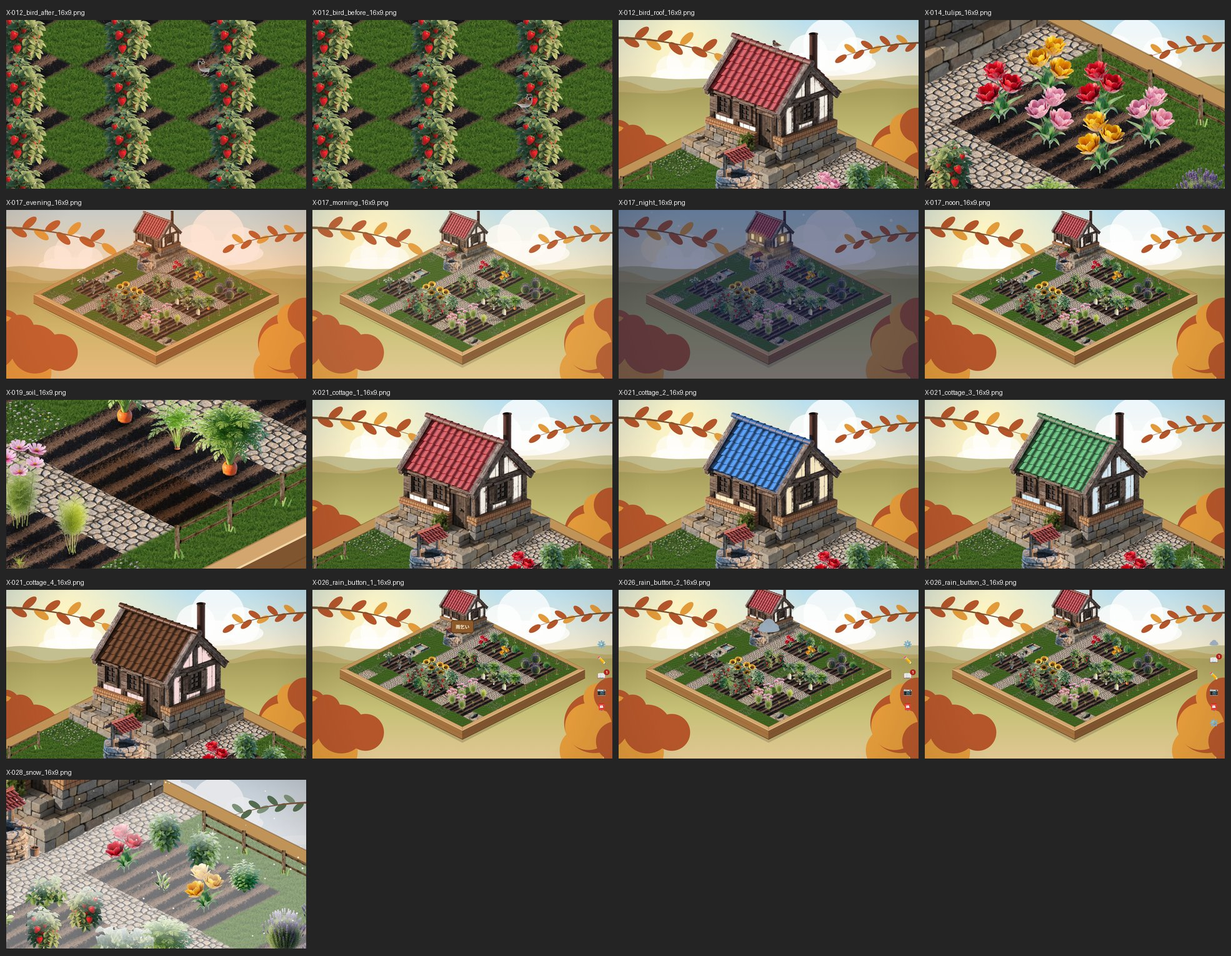
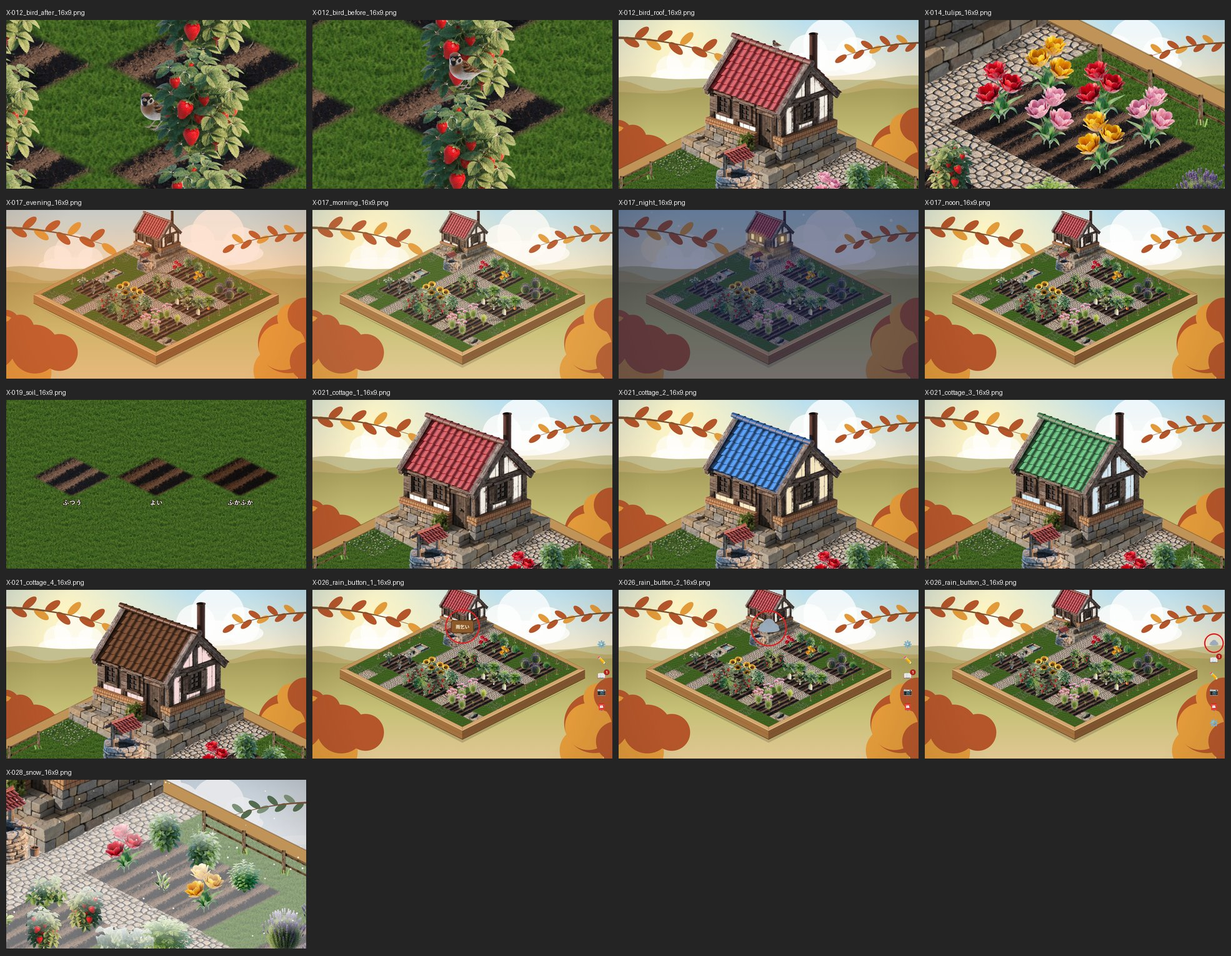
11 月の宣伝素材の直し：一覧の画像（contact_sheet・clips_sheet）を作り直し、作り直し用の tools/promo_sheets.py。README に X-012 の寄り方・X-017_timeofday・X-019 の文字・X-026 の丸印と raw/ を追記。ShowcaseTest に横一列の土の庭のテスト 1 件

Changed region(s): [[0.0, 0.0, 0.4954, 0.215], [0.0, 0.3993, 0.2477, 0.6144], [0.6193, 0.6451, 0.6503, 0.6758]]

diff --git a/app/src/test/java/com/studioguu/miniaturegarden/ui/debug/ShowcaseTest.kt b/app/src/test/java/com/studioguu/miniaturegarden/ui/debug/ShowcaseTest.kt
@@ -113,6 +113,17 @@ class ShowcaseTest {
     }
 
     @Test
+    fun `the soil's row is three empty beds, plain to fluffy, side by side across the screen, on a lawn`() {
+        val row = ShowcaseGarden.soilRow(now)
+        val beds = ShowcaseGarden.SOIL_ROW.map { cell -> row.single { it.isTilledSoil && GridCell(it.gridX, it.gridY) == cell } }
+        assertEquals(listOf(0, 1, 2), beds.map { it.soilQuality })
+        assertTrue(row.none { it.isPlant })
+        // Side by side on the screen: each a step right (x + 1) and a step up (y - 1), so x - y grows and x + y stays.
+        assertEquals(1, ShowcaseGarden.SOIL_ROW.map { it.x + it.y }.toSet().size)
+        assertEquals(ShowcaseGarden.SIZE * ShowcaseGarden.SIZE, row.flatMap { it.occupiedCells() }.toSet().size)
+    }
+
+    @Test
     fun `a bird is called to a building or onto the ground, in place of any other bird`() {
         val other = CreatureVisit(VisitRule.BIRD_BENCH, GridCell(7, 8), null, now, now + 60_000L)
         val roof = Showcase(bird = StructureData.COTTAGE.objectId, birdAt = now).visitors(listOf(other), garden).single()

diff --git a/tools/promo_sheets.py b/tools/promo_sheets.py
@@ -1,0 +1,76 @@
+"""The two sheets for looking over a set of promotional pictures at a glance (docs/promo/2026-11):
+contact_sheet.jpg has every picture small with its name, clips_sheet.jpg the first, middle and
+last frame of every clip. The plain pictures in raw/ are left out.
+
+    python tools/promo_sheets.py [docs/promo/2026-11]
+"""
+
+from __future__ import annotations
+
+import re
+import subprocess
+import sys
+import tempfile
+from pathlib import Path
+
+from PIL import Image, ImageDraw
+
+sys.path.insert(0, str(Path(__file__).resolve().parent))
+from promo_capture import ROOT, ffmpeg_exe  # noqa: E402
+
+
+def contact_sheet(folder: Path) -> Path:
+    stills = sorted(folder.glob("X-*.png"))
+    w, h, cols = 480, 270, 4
+    rows = (len(stills) + cols - 1) // cols
+    sheet = Image.new("RGB", (cols * (w + 10) + 10, rows * (h + 34) + 10), (36, 36, 36))
+    draw = ImageDraw.Draw(sheet)
+    for i, path in enumerate(stills):
+        x, y = 10 + (i % cols) * (w + 10), 10 + (i // cols) * (h + 34)
+        sheet.paste(Image.open(path).convert("RGB").resize((w, h), Image.LANCZOS), (x, y + 22))
+        draw.text((x, y + 4), path.name, fill=(240, 240, 240))
+    target = folder / "contact_sheet.jpg"
+    sheet.save(target, quality=85)
+    return target
+
+
+def clips_sheet(folder: Path) -> Path:
+    ffmpeg = ffmpeg_exe()
+    row_height = 300
+    scratch = Path(tempfile.mkdtemp())
+    rows = []
+    for clip in sorted(folder.glob("X-*.mp4")):
+        info = subprocess.run([ffmpeg, "-i", str(clip)], capture_output=True, text=True, errors="replace").stderr
+        m = re.search(r"Duration: (\d+):(\d+):([\d.]+)", info)
+        length = int(m[1]) * 3600 + int(m[2]) * 60 + float(m[3])
+        frames = []
+        for j, at in enumerate([0.05, length / 2, length - 0.1]):
+            still = scratch / f"{clip.stem}_{j}.png"
+            subprocess.run([ffmpeg, "-y", "-loglevel", "error", "-ss", str(at), "-i", str(clip), "-frames:v", "1", str(still)], check=True)
+            image = Image.open(still).convert("RGB")
+            frames.append(image.resize((round(image.width * row_height / image.height), row_height), Image.LANCZOS))
+        rows.append((clip.name, length, frames))
+    width = max(sum(f.width for f in frames) + 40 for _, _, frames in rows)
+    sheet = Image.new("RGB", (width, len(rows) * (row_height + 34) + 10), (36, 36, 36))
+    draw = ImageDraw.Draw(sheet)
+    for i, (name, length, frames) in enumerate(rows):
+        y = 10 + i * (row_height + 34)
+        draw.text((10, y + 4), f"{name}  ({length:.1f} s: first / middle / last)", fill=(240, 240, 240))
+        x = 10
+        for frame in frames:
+            sheet.paste(frame, (x, y + 22))
+            x += frame.width + 10
+    target = folder / "clips_sheet.jpg"
+    sheet.save(target, quality=85)
+    return target
+
+
+def main() -> int:
+    folder = Path(sys.argv[1]) if len(sys.argv) > 1 else ROOT / "docs/promo/2026-11"
+    print(contact_sheet(folder))
+    print(clips_sheet(folder))
+    return 0
+
+
+if __name__ == "__main__":
+    sys.exit(main())

diff --git a/docs/promo/README.md b/docs/promo/README.md
@@ -66,20 +66,22 @@ python tools/promo_capture.py --sheet docs/promo/contact_sheet.jpg
 ## 11 月の投稿用（`2026-11/`）
 
 ファイル名の頭は投稿の ID。画像は横 16:9（1600×900）、動画は横 16:9（1600×900）と縦 9:16（1080×1920）の H.264。
-確認用に `contact_sheet.jpg`（静止画の一覧）と `clips_sheet.jpg`（動画の最初・真ん中・最後のコマ）。
+確認用に `contact_sheet.jpg`（静止画の一覧）と `clips_sheet.jpg`（動画の最初・真ん中・最後のコマ）。作り直しは `python tools/promo_sheets.py`。
+`raw/` は文字や丸印を重ねる前の元の画像（`tools/promo_marks.py` がここから作るので、何度作っても二重にならない）。
 
 | ファイル | 内容 | 撮り方 |
 |---|---|---|
 | `X-010_tilling_*.mp4` | 荒れ地の 3 マスをクワで 2 回ずつたたいて耕した土、さらに 2 回ずつで畝（15 秒） | `garden till`（大根の列を空けた庭）＋ `hoe`、マスをタップ |
-| `X-012_bird_before_16x9.png` | 直す前：ことりがいちごの株の上に乗って見える | 9fb5fc1 の 1 つ前を別の作業フォルダでビルド（下の「古いビルド」）、`promo_burst.py` で選ぶ |
-| `X-012_bird_after_16x9.png` | 直した後：同じ庭・同じ構図で、ことりがいちごの奥に半分隠れる | `garden birdcrops` ＋ `bird 5,4`、`promo_burst.py` で選ぶ |
+| `X-012_bird_before_16x9.png` | 直す前：ことりを中心に寄った構図で、ことりがいちごの株の上に重なって見える | 9fb5fc1 の 1 つ前を別の作業フォルダでビルド（下の「古いビルド」）、`promo_burst.py` で選び `promo_cut.py` で切り出す |
+| `X-012_bird_after_16x9.png` | 直した後：同じ庭・同じ倍率で、ことりがいちごの葉の奥に半分隠れる | `garden birdcrops` ＋ `bird 5,4`、同じく選んで切り出す |
 | `X-012_bird_roof_16x9.png` | ことりがコテージの屋根の棟に止まる | 見せる用の庭 ＋ `bird struct_cottage`、`promo_burst.py` で選ぶ |
 | `X-014_tulips_16x9.png` | チューリップの花壇の寄り（赤・ピンク・黄だけ、全部咲いた段階） | `garden tulips` |
 | `X-017_{morning,noon,evening,night}_16x9.png` | 同じ構図で朝・昼・夕方・夜の全体 | `time` だけを変える |
-| `X-019_soil_16x9.png` | 何も植えていない畝を左から ふつうの土・よい土・ふかふかの土 | `garden soil` |
+| `X-017_timeofday_*.mp4` | 同じ構図で朝→昼→夕方→夜を約 3 秒ずつ、0.7 秒でふわっと切り替えてつなぐ（約 10 秒） | `Shot.segments`：時間帯ごとに 5 秒録って 1 秒目から 3 秒を使い、xfade でつなぐ |
+| `X-019_soil_16x9.png` | 何も植えていない ふつう・よい・ふかふか の土を 1 マスずつ画面の横一列に。下に白い小さな文字 | `garden soilrow`。文字は `promo_marks.py` が後から重ねる（ゲームの画面には無い） |
 | `X-021_cottage_{1..4}_16x9.png` | コテージの色違い：赤/白（元の色）・青/クリーム・緑/水色・こげ茶/淡いピンク | `roof` / `wall`（屋根 4 色×壁 4 色＝16 通り） |
 | `X-024_raincloud_*.mp4` | 右のアイコン列の雨雲をタップ → 確認 → 雨 → 作物がきらっと光る（15 秒） | `garden thirsty` ＋ `side_only` ＋ `skip_ad`、雲と「雨を降らせる」を探してタップ |
-| `X-026_rain_button_{1,2,3}_16x9.png` | 雨乞いのボタンの 3 段階：茶色の文字ボタン／空の雨雲／右の列の雲 | 1 は 979e699 の 1 つ前、2 は 2be8292 の 1 つ前を別の作業フォルダでビルド、3 は今の `side_only` |
+| `X-026_rain_button_{1,2,3}_16x9.png` | 雨乞いのボタンの 3 段階：茶色の文字ボタン／空の雨雲／右の列の雲。ボタン・雲に赤い丸印（線だけ） | 1 は 979e699 の 1 つ前、2 は 2be8292 の 1 つ前を別の作業フォルダでビルド、3 は今の `side_only`。丸印は `promo_marks.py`（位置は `RINGS`） |
 | `X-028_snow_16x9.png` | 冬・雪の日の一角（作物の上と地面の雪。屋根には積もらない作り） | `season WINTER` ＋ `weather SNOWY` |
 | `X-005_butterfly_9x16.mp4` / `X-007_rain_9x16.mp4` | 前回の `butterfly.mp4`・`rain.mp4` の縦版（寄った構図） | |
 
@@ -101,7 +103,7 @@ python tools/promo_capture.py --set 2026-11
 
 | 指定 | 内容 |
 |---|---|
-| `--es garden till` / `soil` / `tulips` / `thirsty` / `birdcrops` | 見せる用の庭の変種（読み込み時）。`ShowcaseGarden` を参照 |
+| `--es garden till` / `soil` / `soilrow` / `tulips` / `thirsty` / `birdcrops` | 見せる用の庭の変種（読み込み時）。`ShowcaseGarden` を参照 |
 | `--es roof blue --es wall cream` | コテージの色（読み込み時、`BuildingPaint` の id） |
 | `--ez hoe true` | クワを持つ（UI を隠したままタップで耕せる） |
 | `--es bird struct_well` / `struct_cottage` / `5,4` | ことりを今すぐ呼ぶ（建物へ、または地面のマスのまわりへ） |
@@ -113,11 +115,15 @@ python tools/promo_capture.py --set 2026-11
 ことりの位置は来るたびに変わるので、続けて撮った中から選ぶ。
 
 ```bash
-python tools/promo_burst.py --garden birdcrops --view 2.6 5 4.5 0 --count 30 --gap 0.5 --out app/build/promo/bird -- --es creatures bird --es bird 5,4
+# X-012：画面を 4800×2700・840dpi にして、同じ範囲を 2 倍の細かさで撮る（庭の拡大は GardenCamera.MAX_SCALE = 2.5 が上限）
+python tools/promo_burst.py --garden birdcrops --display 4800x2700 --density 840 --view 2.5 5 4.5 0 --count 40 --gap 0.5 --out app/build/promo/bird_after -- --es creatures bird --es bird 5,4
+# sheet.jpg から、ことりの写ったコマ（例 6）と、ことりのいないコマ（例 12）を選び、ことりのまわりの半分を切り出す
+python tools/promo_cut.py app/build/promo/bird_after 6 --empty 12 --near 3250 1050 --out docs/promo/2026-11/X-012_bird_after_16x9.png
+# X-012_bird_roof
 python tools/promo_burst.py --view 1.4 1 1 520 --count 18 --gap 1 --out app/build/promo/roof -- --es creatures bird --es bird struct_cottage
 ```
 
-`sheet.jpg` から選んだ `bNN.png`（2400×1350）を 1600×900 に縮める。
+`--near` はことりのおおよその位置（4800×2700 の中）。前回（11/07 の 1 回目）の X-012 は 2400×1350 のまま撮り、選んだ `bNN.png` を縮めていた。
 
 ### 古いビルド（直す前の絵）
 
